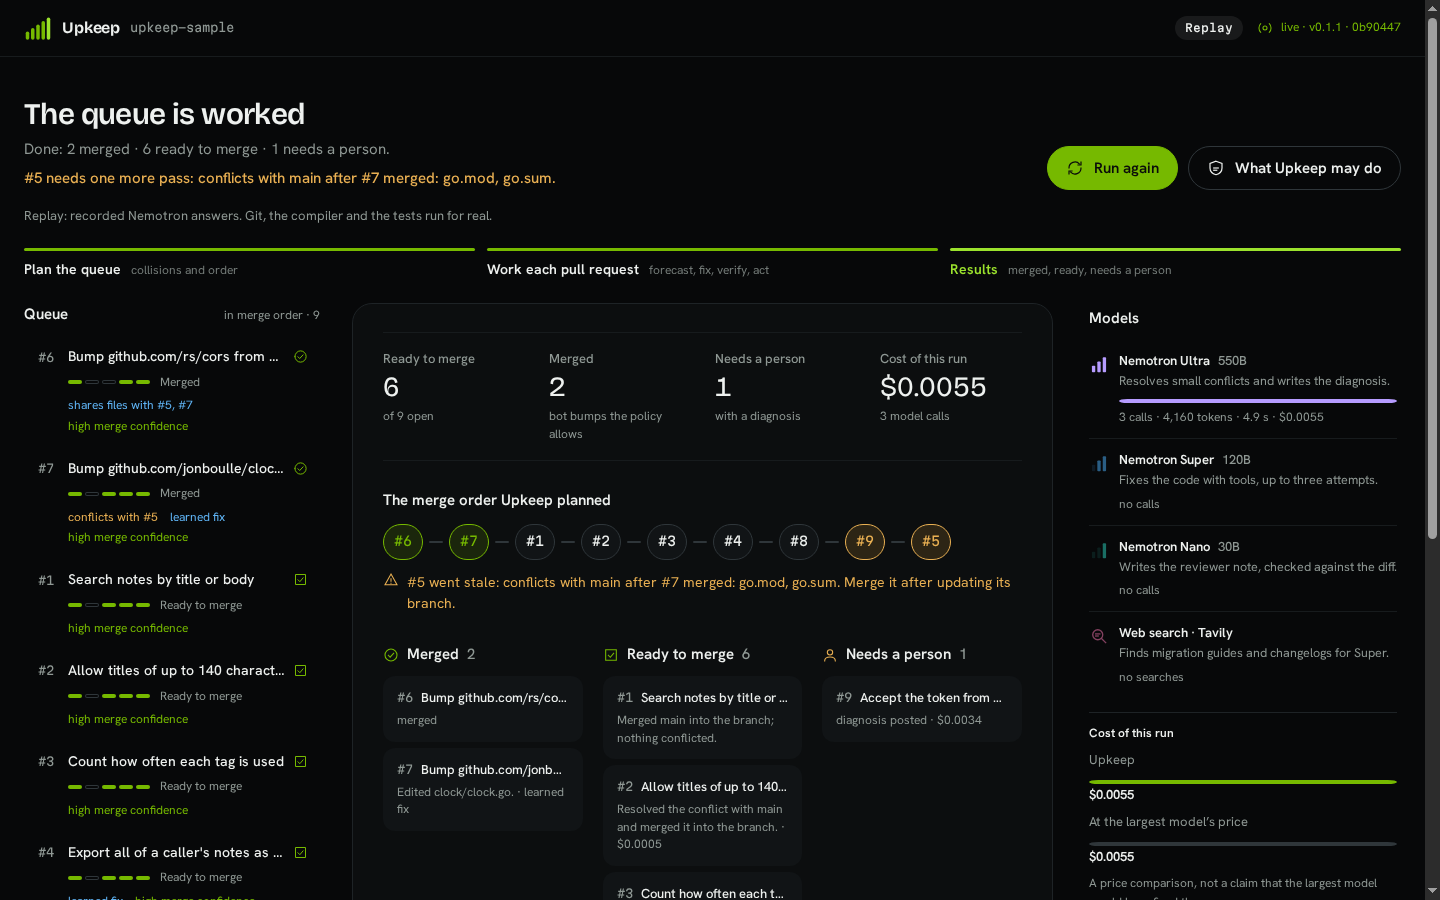
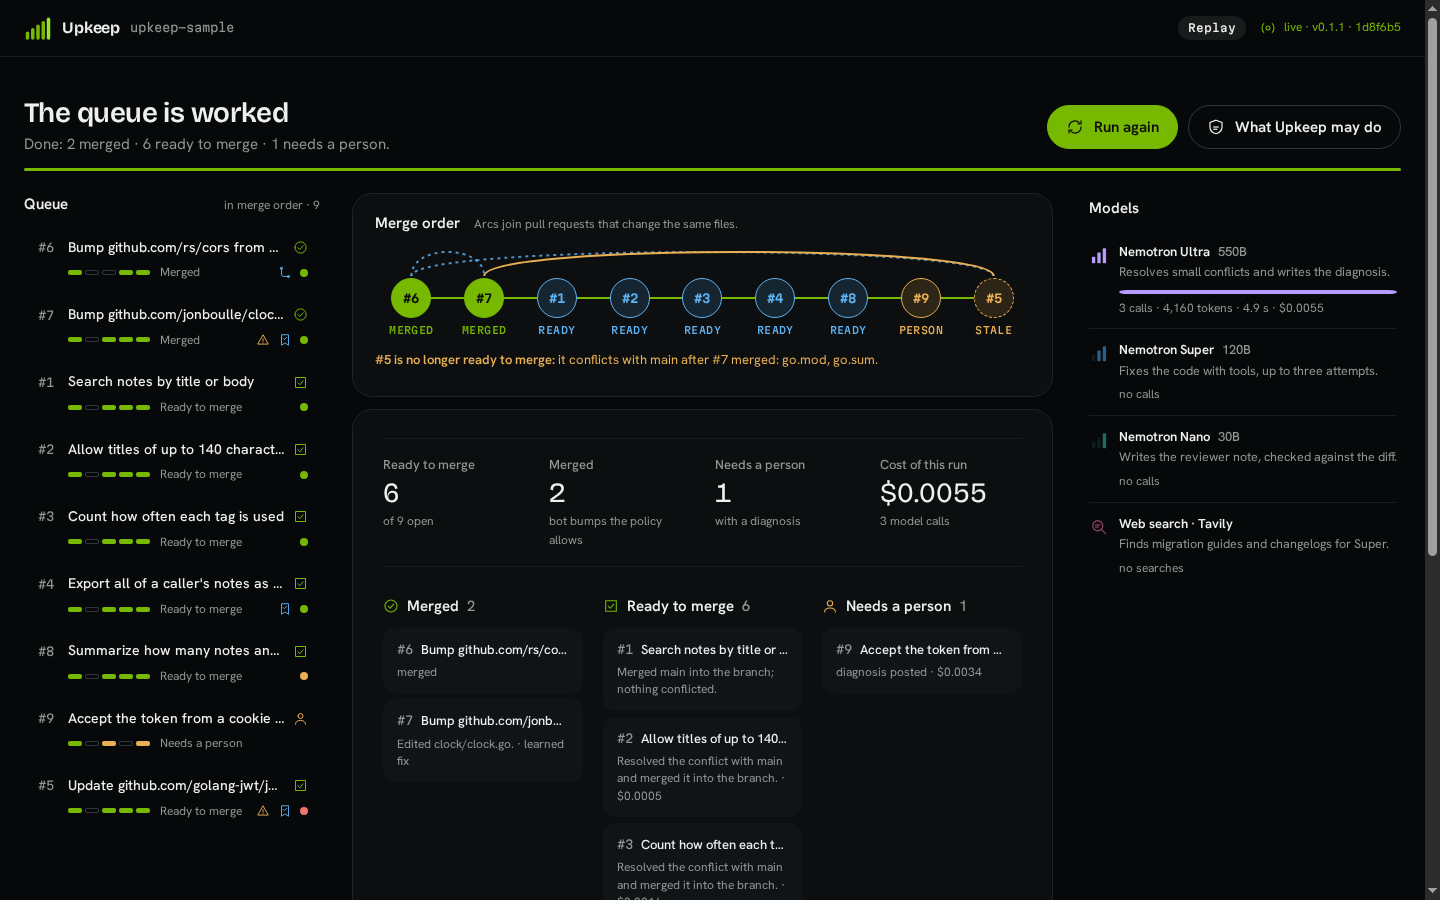
docs: retake the dashboard screenshots with the merge graph

diff --git a/README.md b/README.md
@@ -6,7 +6,7 @@ Upkeep keeps GitHub pull requests mergeable. It looks at the whole queue of open
 
 It runs on NVIDIA Nemotron models (Ultra, Super and Nano) served by Nebius Token Factory, and reads migration guides found with Tavily. It is written in Go and ships as one binary with its dashboard built in.
 
-![The dashboard after a run: the queue in merge order on the left, the results in the centre, the models and the web search on the right](docs/images/dashboard-done.png)
+![The dashboard after a run: the queue on the left, the merge order drawn as a graph above the results in the centre, the models and the web search on the right](docs/images/dashboard-done.png)
 
 ## What it does
 
@@ -26,7 +26,7 @@ Upkeep never force-pushes, never merges a pull request opened by a person, and n
 
 While the queue runs, the centre of the screen is a live stage: the pull request the agent is working, its five stages, the latest thing that happened, and the trace as it grows: the plan, the Tavily search, every Super turn with the tool it asked for and the file it edited, each attempt with why it failed, the verifier and the action. Click a pull request in the queue to follow it instead:
 
-![The live stage following the jwt major upgrade: its stages, the forecast with the Tavily search, and Super's attempt turn by turn with its edits](docs/images/dashboard-trace.png)
+![The live stage following the jwt major upgrade: its stages, the other workers in parallel, and Super's attempt turn by turn with its edits](docs/images/dashboard-trace.png)
 
 The full detail of a pull request opens in a side sheet; its Summary tab keeps what a reviewer needs: what changed, the merge confidence and its reasons, the forecast with each prediction confirmed or not seen by the build and where the sources came from, the diff, the verifier and the receipt.
 
